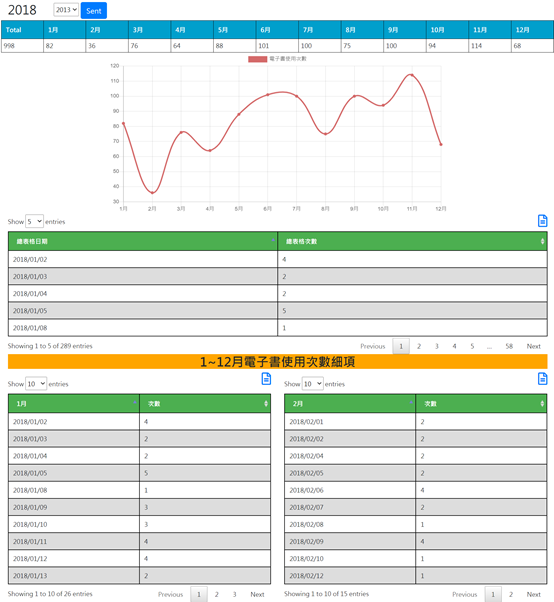
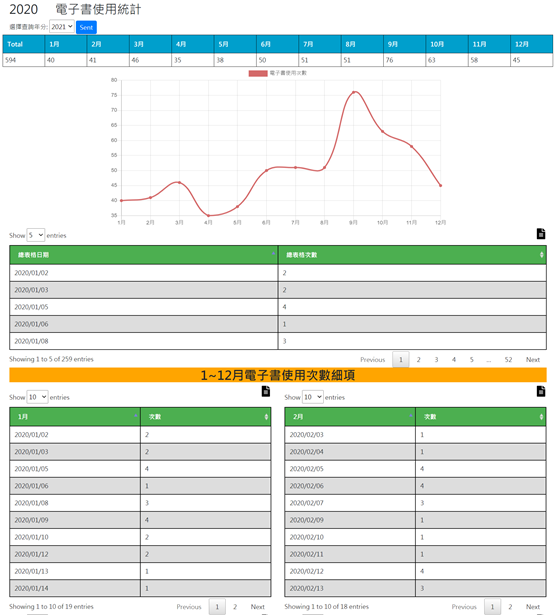
modify pic & readme

diff --git a/controller.js b/controller.js
@@ -88,6 +88,7 @@ window.onload = function () {
             let alltotal = 0, total1 = 0, total2 = 0, total3 = 0, total4 = 0, total5 = 0, total6 = 0,
                 total7 = 0, total8 = 0, total9 = 0, total10 = 0, total11 = 0, total12 = 0;
             
+            //判斷選擇哪一年以動態拼接tables
             if (queryString == "year=2013"){//year2013
                 for (let l = 0; l < year13.length; l ++) {//迴圈遍歷出year21物件中的每一個資料並顯示在對應的td中
                     trStr13 += '<tr>';  

diff --git a/README.md b/README.md
@@ -1,8 +1,15 @@
 # Library
 ## 電子書視覺化統計
+### 主要功能
 1. 初始畫面:呈現當年度每日次數，每月次數，當年度總使用次數，當年度每月次數折線圖。
 2. 同日期者，次數需加總，僅呈現一筆資料。
-2. 需有選單，可選擇年度，選擇後呈現該年度資料。
-3. 有匯出當年度全部資料 CSV 檔的功能。
+3. 需有選單，可選擇年度，選擇後呈現該年度資料。
+4. 有匯出當年度全部資料 CSV 檔的功能。
+### 功能介紹與注意事項
+- 後端數據連接 txt 檔案
+- 解析資料 index 偶數為次數(times)，奇數為日期(date)
+- 轉成 Object 型態，並分類各年分與各月份
+- 動態拼接13個 table，包含總表格與12個月分
+- 目前包含2013、2017、2018、2019、2020和2021年分，未來需手動增加年分與判斷式式
 
 ![image](https://github.com/lindaya0913/Library/blob/main/library.png)
